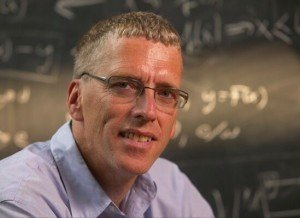
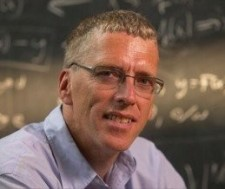
added speakers and resized images

diff --git a/speakers.md b/speakers.md
@@ -25,3 +25,21 @@ Speaking on
 
 Speaking on ...
 
+### [Armando Solar-Lezama](https://people.csail.mit.edu/asolar/), _Massachusetts Institute of Technology_
+
+![Armando Solar-Lezama](./assets/img/alezama.jpg)
+
+Speaking on 
+
+
+### [Clark Barrett](https://theory.stanford.edu/~barrett/), _Stanford University_
+
+![Clark Barrett](./assets/img/cbarret.jpg)
+Speaking on ...
+
+
+### [Cliff Burgees](https://physics.mcmaster.ca/~cburgess/cburgess/), _McMaster University_
+
+![Cliff Burgees](./assets/img/cliff.jpg)
+
+Speaking on ...
